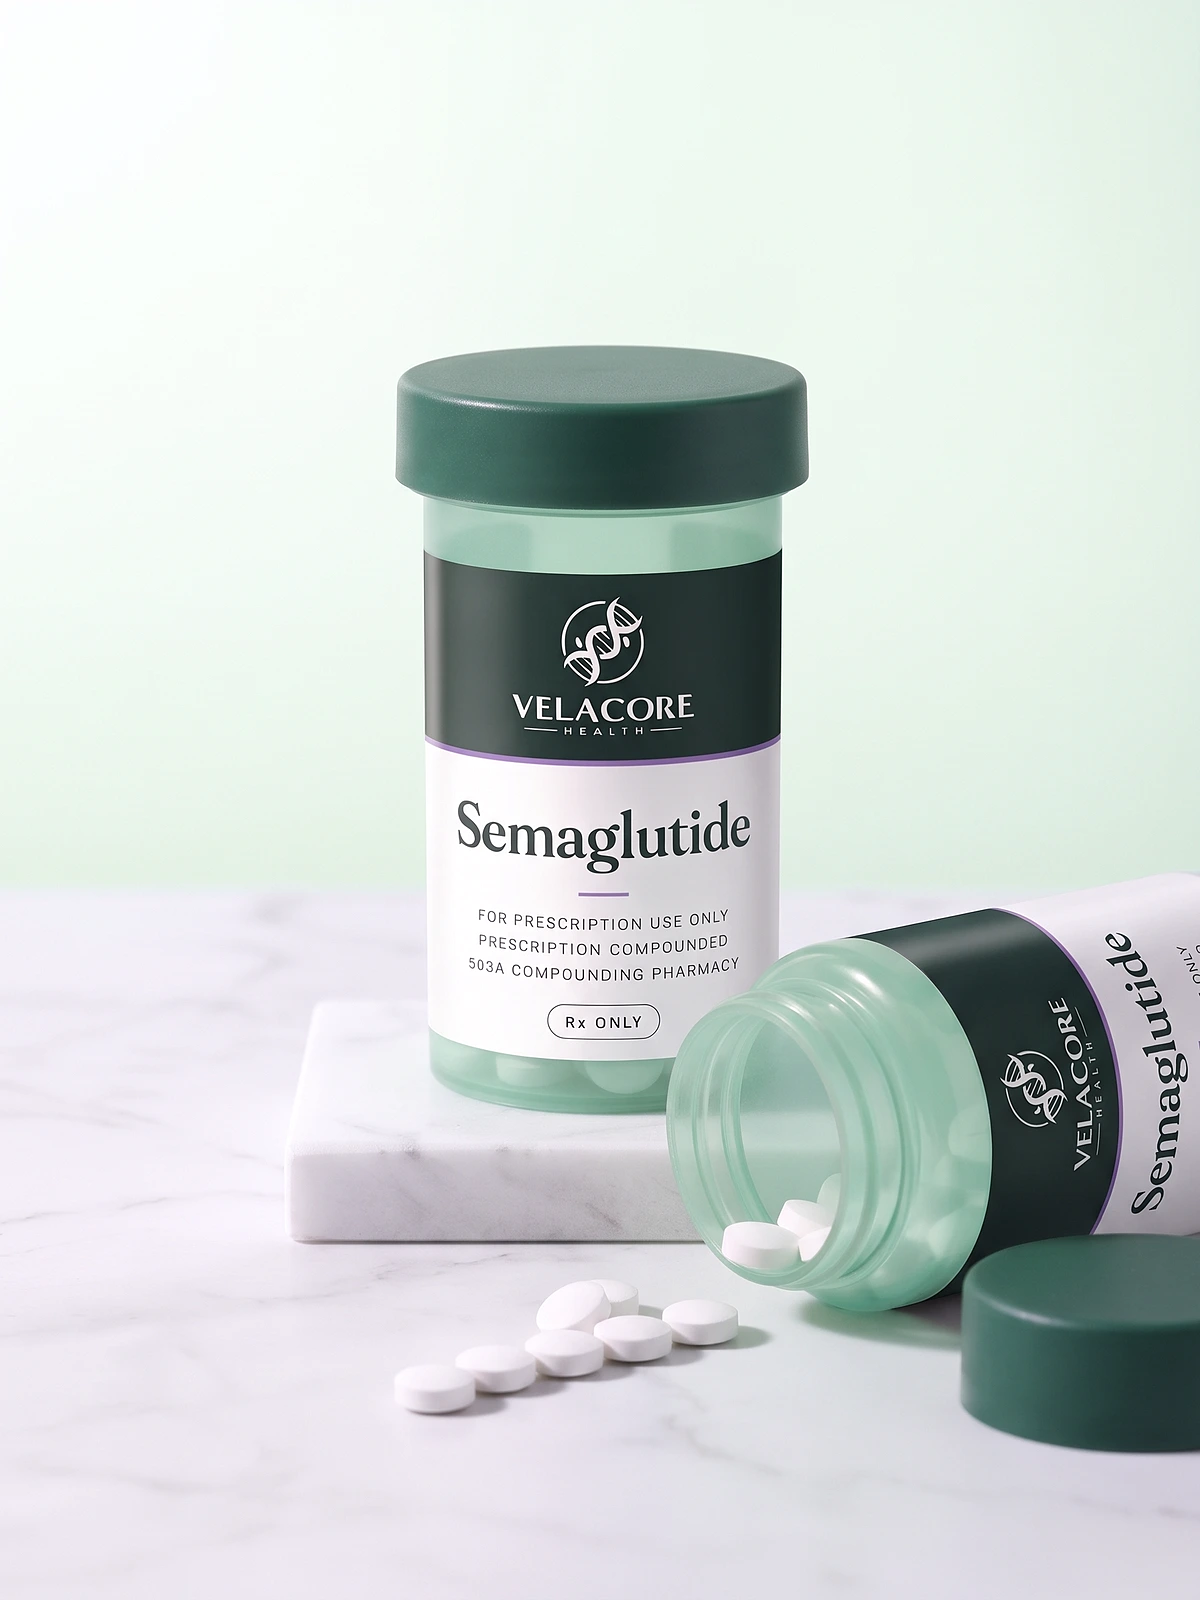
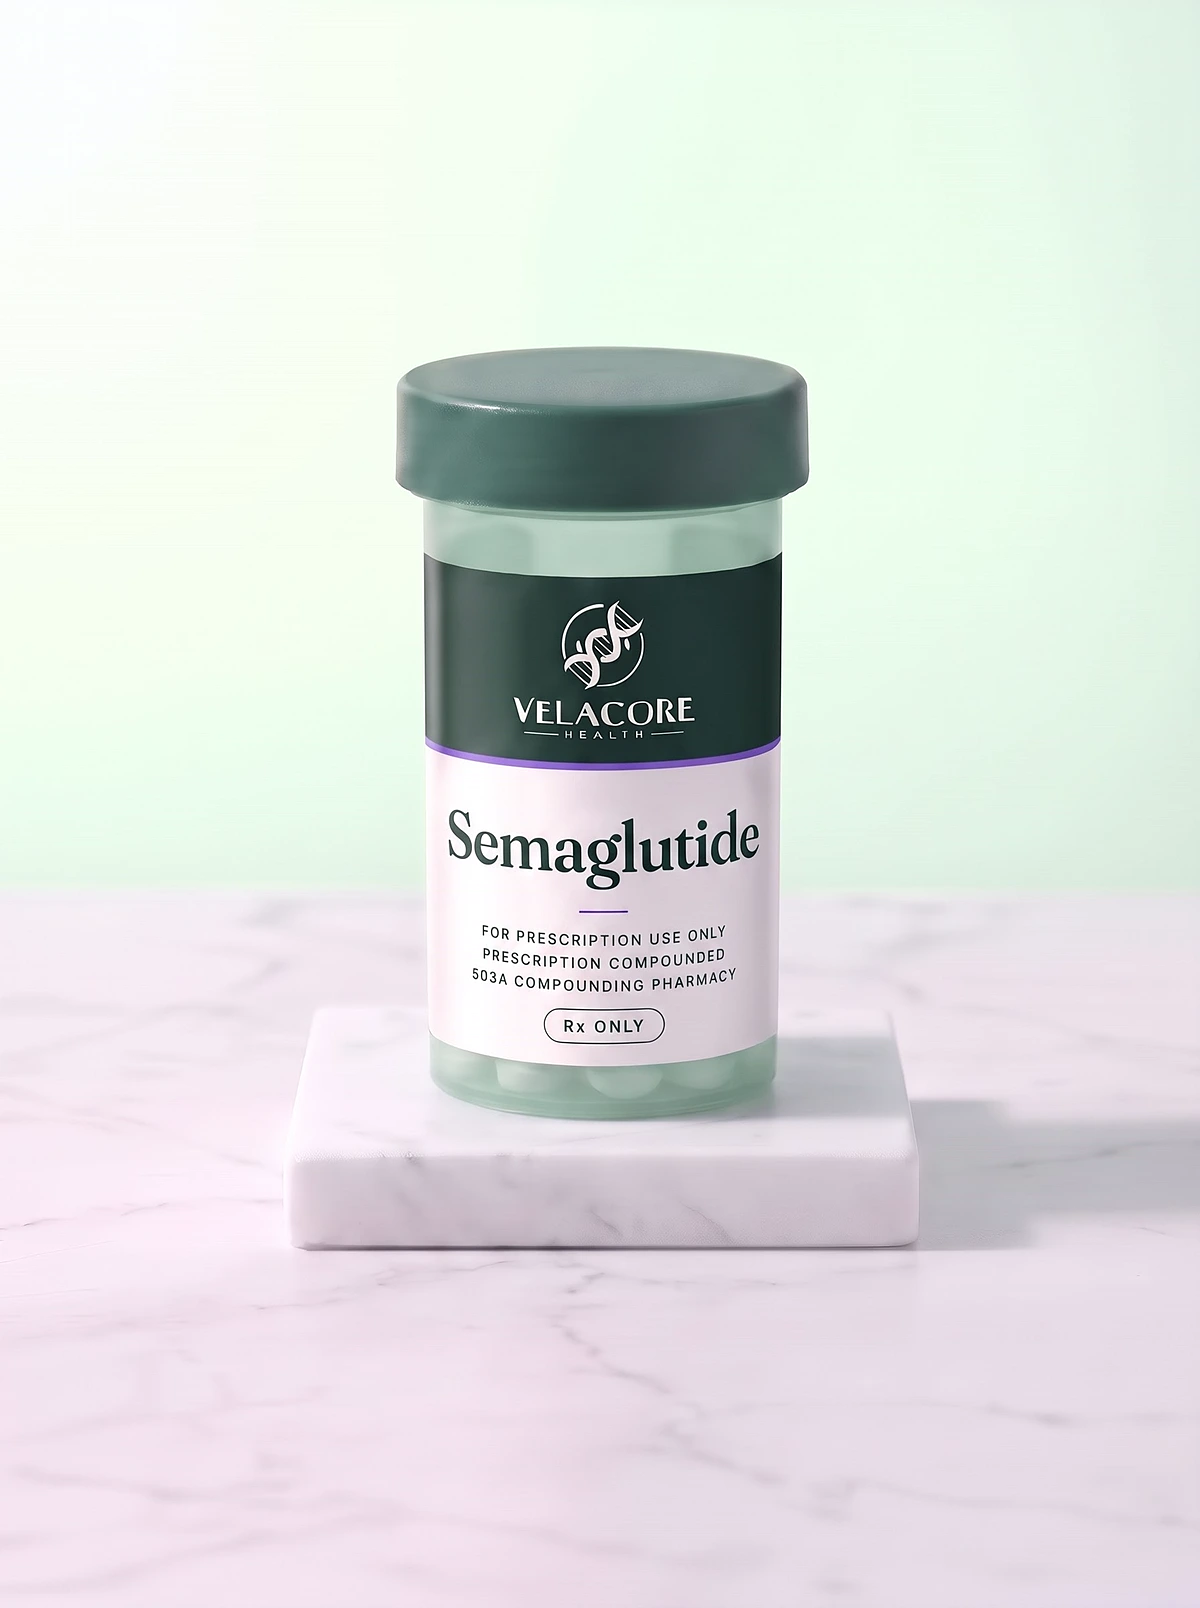
Semaglutide oral photo: one standing bottle, fully in frame
The two-bottle photo was cut off at the right edge. New photo from Gemini, checked
letter by letter, with its tiles and a thumbnail that ends above the small print.
prepare_images now converts only the files named and makes product photos 1200
wide like the live ones. Sexual health and HRT photos are parked as _hold files.

diff --git a/tools/prepare_images.py b/tools/prepare_images.py
@@ -1,11 +1,13 @@
 """Converts images dropped in assets-in/ into the site's format.
 
-Run from the repo root:  python -I tools/prepare_images.py
+Run from the repo root:  python -I tools/prepare_images.py semaglutide-oral
+Name the files to convert, without the extension. Nov 18 2026: run with no names it reconverts every image, and the
+results differ from the files that are live, so always name the ones that changed.
 
 assets-in/products/  -> public/images/products/<name>.webp   the five program vials
 assets-in/lifestyle/ -> public/images/lifestyle/<name>.webp  people and scenes
 Each PNG or JPG is resized to 1600 px on the long side and saved as WebP at quality 88. Product photos are
-sharpened, saved at quality 92, and get an 800 wide copy for cards on phones.
+1200 wide, sharpened, saved at quality 92, and get an 800 wide copy for cards on phones.
 Prompts and file names are in docs/gemini-prompts.md. Uses ffmpeg. Nothing else is touched.
 """
 import subprocess
@@ -46,11 +48,15 @@ def main():
     return 0
 
 
+ONLY = {a.lower() for a in sys.argv[1:]}
+
+
 def convert(IN, OUT, EXPECTED):
     IN.mkdir(parents=True, exist_ok=True)
     OUT.mkdir(parents=True, exist_ok=True)
     # Nov 18 2026: files starting with an underscore are kept versions, never converted.
-    files = sorted(p for p in IN.iterdir() if p.suffix.lower() in {".png", ".jpg", ".jpeg", ".webp"} and not p.name.startswith("_"))
+    files = sorted(p for p in IN.iterdir() if p.suffix.lower() in {".png", ".jpg", ".jpeg", ".webp"} and not p.name.startswith("_")
+                   and (not ONLY or p.stem.lower() in ONLY))
     for src in files:
         name = src.stem.lower().replace(" ", "-")
         dst = OUT / f"{name}.webp"
@@ -59,7 +65,7 @@ def convert(IN, OUT, EXPECTED):
         if OUT.name == "products":
             # Nov 17 2026: product photos are sharpened after a Lanczos resize, and get an 800 copy for cards on phones.
             cmd = ["ffmpeg", "-y", "-loglevel", "error", "-i", str(src),
-                   "-vf", "scale='if(gt(iw,ih),1600,-2)':'if(gt(iw,ih),-2,1600)':flags=lanczos,unsharp=5:5:0.5:5:5:0",
+                   "-vf", "scale=1200:-2:flags=lanczos,unsharp=5:5:0.5:5:5:0",  # 1200 wide, the size of the live product photos
                    "-c:v", "libwebp", "-quality", "92", str(dst)]
             subprocess.run(["ffmpeg", "-y", "-loglevel", "error", "-i", str(src), "-vf", "scale=800:-2:flags=lanczos,unsharp=5:5:0.6:5:5:0",
                             "-c:v", "libwebp", "-quality", "92", str(OUT / f"{name}-800.webp")], capture_output=True, text=True)

diff --git a/tools/make_thumbs.py b/tools/make_thumbs.py
@@ -21,7 +21,7 @@ BOXES = {
     "nad-nasal": (668, 1255, 480),
     "nad-oral": (648, 1165, 520),
     "microdosing-oral": (648, 1165, 520),
-    "semaglutide-oral": (600, 744, 608),
+    "semaglutide-oral": (637, 846, 528),  # Nov 18 2026: one standing bottle, the two-bottle photo retired
 }
 # Not a product: the Not sure tile on the home page shows the glass clipboard, which has no label to read.
 OTHER = {"not-sure": ("lifestyle/learn-evaluation.jpg", (330, 150, 1300))}

diff --git a/docs/HANDOFF.md b/docs/HANDOFF.md
@@ -47,6 +47,8 @@ Bryan is non-technical: explain steps plainly and don't assume knowledge.
 
 ## Status as of Nov 13, 2026 (newest; read first)
 
+Nov 18 2026, night, local only: three Gemini images made by Dourado from his tablet, each checked letter by letter. Sexual Health and Women's HRT bottles pass and wait as `_hold-` files in assets-in/products until launch. Semaglutide oral is now one standing bottle; the two-bottle photo was cut off at the right edge and two edits failed to fix it. The old one is kept as `_prev-semaglutide-oral-two-bottles.jpg`. The new photo, its tiles and its thumbnail are in public/ and change the Semaglutide Forms card, the Needle-free menu and the side panel. Caution: `tools/prepare_images.py` run with no names re-made every photo at a different size from the live files; it now takes file names and makes product photos 1200 wide like the live ones. Compliance 0 fail, site audit only the Start placeholder fail. Not pushed.
+
 Nov 18 2026, late evening: Dourado asked to push the sexual health and HRT products with placeholders. Vale built the structure and kept it switched off, since naming these medications live without OpenLoop's safety text and pharmacy answers would fail the vc-reviewer launch blockers. The two programs are wired into every builder: program and Start pages, Treatments dropdown, slide-in menu, pricing cards, generated footers and the phone price bar. A program goes live only when its slug is added to LIVE in tools/draft_programs.py; with LIVE empty the rebuild changed no file in public/. A switched-on copy rendered clean at 375 and 1280. Launch steps, including the hand edits to index.html and sitemap.xml, are in docs/launch-sexual-health-hrt.md. Commit e91afbc, not pushed. Dourado decided the same night: keep both programs hidden until OpenLoop answers in writing.
 
 Nov 18 2026, evening: sexual health and women's HRT drafted on Dourado's "Yes, draft them". Not live and not publishable: copy by vc-copy in tools/draft_programs.py, built by python -I tools/build_drafts.py into drafts/programs, outside public/, with a draft banner, noindex, no analytics, a safety placeholder and an Open before launch list. Facts come from the Nov 12 proposal pages 15, 16, 24 and 25, read in the Drive viewer and recorded in docs/openloop-proposal-notes.md. vc-reviewer PASS for the draft copy, fixes applied. Launch blockers: every open item answered by OpenLoop in writing, the compounded disclaimer placed per item, the site-wide 503A wording broadened if any item is filled elsewhere, full prices in menus and the phone bar, the attorney's tracking decision, the approved-name list in vc-compliance-check, real product images, then a vc-reviewer ship review. Two new questions are in the held follow-up of docs/openloop-email-draft.md.

diff --git a/docs/launch-sexual-health-hrt.md b/docs/launch-sexual-health-hrt.md
@@ -29,7 +29,7 @@ Every item here must be done first. The open items for each page are also listed
 4. If any item is filled outside a 503A pharmacy, the site-wide 503A wording in the footer, the please-note block and the trust strip is broadened.
 5. The attorney decides whether any analytics may run on these pages.
 6. Each line swap in `SWAPS` that OpenLoop confirms is removed, and the "Draft placeholder" words come out of the FAQ answers.
-7. Product images follow `docs/BRAND.md`: drop `sexual-health.png` and `womens-hrt.png` in `assets-in/products/`, run `python -I tools/prepare_images.py`, then make the small menu photos with `tools/make_thumbs.py`.
+7. Product images: done Nov 18 2026 and checked against the label artwork. They wait in `assets-in/products/` as `_hold-sexual-health.jpg` and `_hold-womens-hrt.jpg`, so the converter skips them. On launch day drop the `_hold-` from each name, run `python -I tools/prepare_images.py sexual-health womens-hrt`, add a box for each to `tools/make_thumbs.py` and run it. Their labels carry only FOR PRESCRIPTION USE ONLY; if OpenLoop confirms the items are compounded, the labels and photos are remade.
 8. vc-reviewer passes both pages for launch.
 
 ## On launch day
